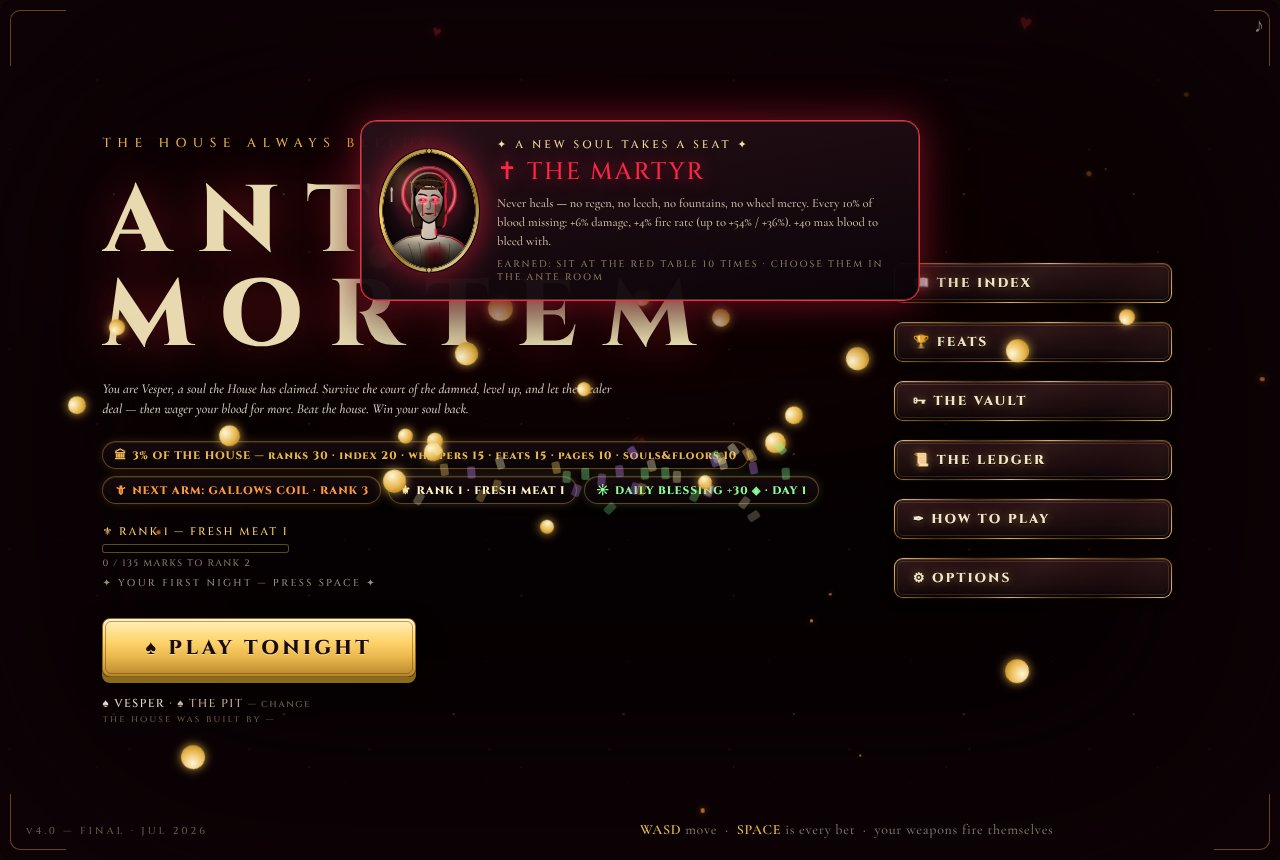
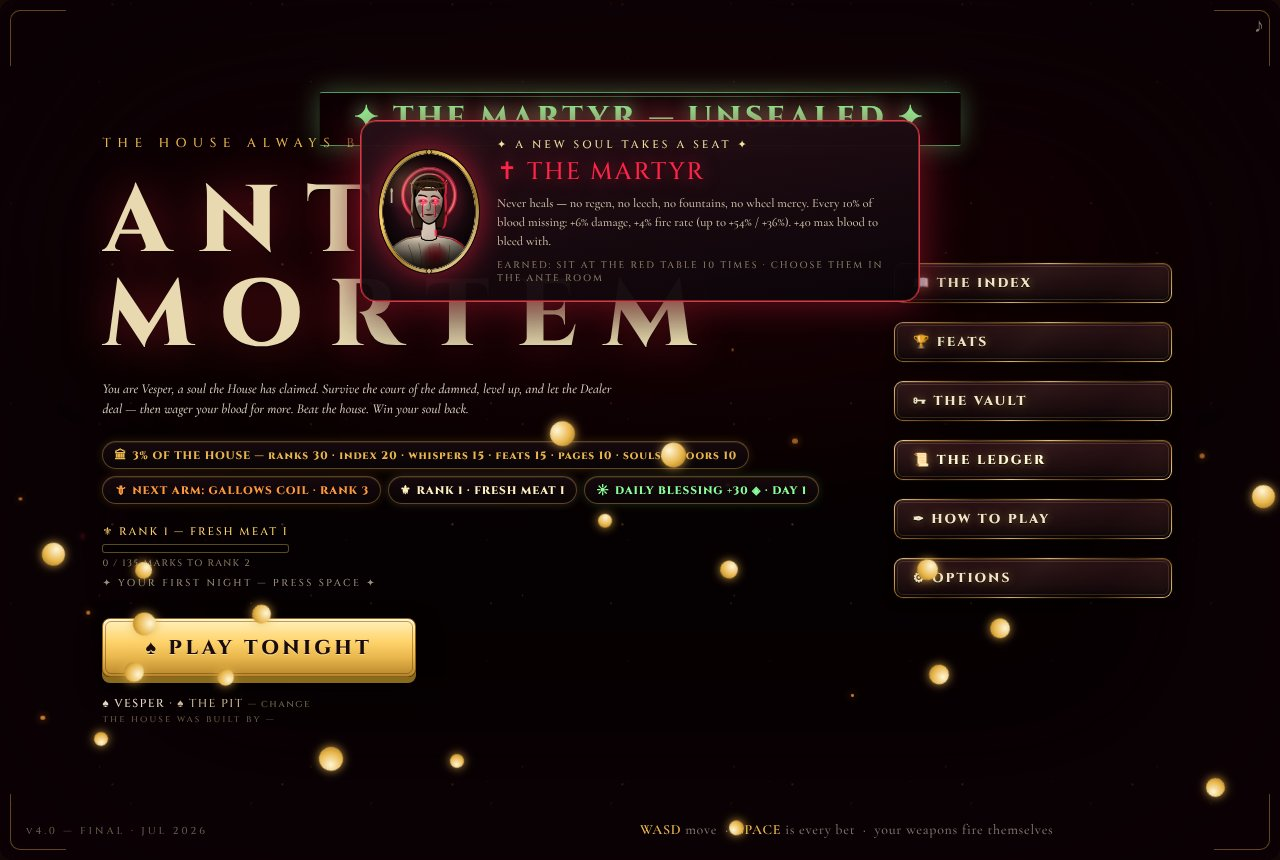
D1: full seats shot set + notes
Claude-Session: https://claude.ai/code/session_01LfZkkFh5gWa71QRUy8Zppz

diff --git a/probes/seats.js b/probes/seats.js
@@ -48,8 +48,9 @@ const unlockHalf = () => { RANK.rank = 14; RANK._ld = 1; LT.deaths = 30; LT.trip
     await settle(page, 20); await shot(page, 's5_index_seats');
     await page.evaluate(() => { document.getElementById('indexPanel').classList.add('hidden'); });
     // 6 — the Cardsharp's tell
-    await page.evaluate(() => { LT.triples = 3; IDX.sl = 'sharp'; window.__bot.noSlotTap = true; window.__bot.god = true; });
+    await page.evaluate(() => { LT.triples = 3; IDX.sl = 'sharp'; window.__bot.noSlotTap = true; window.__bot.god = true; window.__bot.renderEvery = 30; });
     await until(page, "state==='slot' && slotStage==='ready'", 30000);
+    await page.evaluate(() => { window.__bot.renderEvery = 1; });
     await settle(page, 40); await shot(page, 's6_cardsharp_tell');
     await page.evaluate(() => { P.coins = 60; sharpRedeal(); }); await settle(page, 30); await shot(page, 's6b_cardsharp_redealt');
     // check the tell is honoured through the whole pull
@@ -64,7 +65,7 @@ const unlockHalf = () => { RANK.rank = 14; RANK._ld = 1; LT.deaths = 30; LT.trip
   // 7 — the Magpie's golden chip, mid-night
   {
     const { browser, page, errors } = await launch({ which });
-    await page.evaluate(() => { window.__bot.renderEvery = 1; const s = SOULS.find(x => x.id === 'magpie'); s.u = () => true; IDX.sl = 'magpie'; window.__bot.god = true; });
+    await page.evaluate(() => { window.__bot.renderEvery = 30; const s = SOULS.find(x => x.id === 'magpie'); s.u = () => true; IDX.sl = 'magpie'; window.__bot.god = true; });
     await until(page, "state==='playing' && gt>20", 20000);
     await page.evaluate(() => { for (let i = 0; i < 4; i++) coins.push({ x: P.x + 60 + i * 30, y: P.y + 40, r: 6, vx: 0, vy: 0, _d1: 1, gold: 1 }); });
     await settle(page, 4);

diff --git a/notes/D1.md b/notes/D1.md
@@ -1,0 +1,66 @@
+# D1 — THE SEATS (new playable souls + portraits)
+
+Branch `claude/d1-seats`. Four new souls, a painted portrait for all ten, an unlock ceremony, an Index section.
+
+## What it feels like now
+**The Ante Room has faces.** Every soul card carries an oval cameo in a gilt frame: a candlelit bust on velvet black,
+rim-lit in the soul's own color, eyes glowing. Vesper in her crimson coat and feathered brim; the Dealer under a
+blue glass eyeshade with a fan of cards; the Widow behind a violet veil with a moth at her throat; the Debtor in a
+dented top hat, monocle and padlocked chain; the Brute bald, scarred, iron-collared, spiked pauldrons; the Yolk peeking
+out of its cracked shell. Sealed seats show the same bust as a **black silhouette with only the eyes burning**, the
+name, the condition, and a progress bar ("4 / 10") — you can see who you're working toward.
+
+**The four new souls:**
+- **♣ THE CARDSHARP** (emerald) — *LAND 3 TRIPLES.* Every slot opens with THE TELL: the card shows exactly what the
+  pull will give before you spin — "IRON CONSTITUTION · ♣ THE TELL: PAIR — +2 LEVELS". Don't like it? **R** (or the green
+  RE-DEAL button) burns 25 coins and deals a fresh hand, once per slot — riffle sound, green flash, card flips in.
+  The reels then land exactly as told (loose hands become a fated single the selector lands on). −15 max blood.
+- **✝ THE MARTYR** (crimson) — *SIT AT THE RED TABLE 10 TIMES.* Nothing heals her: regen, leech, fountains, wheel
+  heals, tarot heals all get "✝ REFUSED". Every 10% of blood lost tolls a bell and stamps STIGMATA I…IX:
+  +6% damage and +4% fire rate per step (up to +54% / +36%), and a crimson halo thickens around her. +40 max blood.
+  Resurrection isn't healing — the Death Roll, Phoenix and Second Chance still work.
+- **✧ THE MAGPIE** (cyan) — *PICK UP 5,000 LIFETIME COINS.* Pickup reach ×2.5, −20% damage. 3% of coins drop as a
+  red-and-gold casino chip with a cyan glow; grab one and a little three-reel slot pops up under the banner and spins
+  without stopping the night: 7-7-7 (12%) = a free level, a pair (35%) = a free mini-power, a bust = 8–15 coins.
+- **♖ THE BANKER'S GHOST** (chartreuse) — *CASH OUT RAGE AT 90%+ 15 TIMES* (counted for every soul).
+  Every 60s: "♖ INTEREST ACCRUES — +N COINS" (8% of the purse, ka-ching + coin rain, a 5-second warning first).
+  Every 90%+ RAGE cash-out also pays a dividend of 16% of the purse. The Wheel of Souls never manifests for him. −10 max blood.
+
+**Unlocking** any soul (old or new) fires the ceremony once: a framed toast with the portrait sliding in
+("✦ A NEW SOUL TAKES A SEAT ✦"), a low bell, a rising six-note arpeggio, chip stack, confetti, coin rain, a flash
+in the soul's color. It fires on the menu, the ledger, or mid-run (checked every 4s). **The death ledger** now opens its
+run record with the portrait of whoever sat tonight. **The Index** has a THE SEATS section (hover for the full card text).
+
+## Verified
+- `npm run build` clean.
+- `npm run probe -- --nights 1 --soul <id>` for each new soul, exit 0, 0 errors: martyr died 3:29 L4 (reached STIGMATA IX),
+  sharp 4:59 L5, magpie 4:22 L5 (4 golden chips spun), banker 2:39 L3 (interest paid). Bot report now has a `soulFx` block.
+- Baseline `npm run probe -- --nights 3` (Vesper): see the final line of this file.
+- `node probes/seats.js` → `shots/d1-seats/`: s1/s2 portrait sheets (seated + sealed), s3 Ante Room desktop, s4 unlock toast,
+  s5 Index section, s6/s6b Cardsharp tell + re-deal, s7/s7b Magpie chips on the floor + chip slot, s8 death ledger
+  with portrait, s9/s9b/s9c Ante Room + toast on a 390×844 phone. 0 errors. The script also checks the tell is honoured:
+  `tell {"n":1,"s":"dmg"} → fate {"n":1,"s":"dmg","sharp":true}`.
+
+## Files touched (merge notes)
+- `src/ui.js` — 4 entries appended to the SOULS array; a big block appended at the END of the file (SEATS store,
+  GLYPH_COL via Object.assign, SFX via Object.assign, SOUL_PAINT/soulPortrait, renderAnteRoom & renderChips wrappers,
+  soulTick, soulDrawWorld, magpieChip/chipSpin, sharpDeal/sharpShow/sharpBtn/sharpRedeal + an R key listener,
+  wrappers on tickWheelTok/openWheel/cashRage). Wrappers reassign globals — if another branch also wraps cashRage or
+  renderAnteRoom, both chain fine as long as each keeps calling the previous one.
+- `src/core.js` — 3 one-line hooks: `soulTick(dt)` after `fnTick(dt)` in update; `magpieChip(c)` at the coin pickup;
+  `soulDrawWorld()` after the coin draw in render.
+- `src/slot.js` — dealFate honours `window._sharpTell` (only when P.sharp); stopNextReel predicate for `n===1`;
+  startSelector forces selWinner for a sharp single; openSlotReady calls sharpDeal; showSlotButtons adds the RE-DEAL button.
+- `src/ranks.js` — one line in openIndexPanel adding THE SEATS section.
+- `src/marker.js` — one line in the ledger: the `.glSoul` portrait above the soul/floor row.
+- `styles.css` — one block at the end, `/* ==== D1 ==== */`.
+- `probes/bot.js` — `--soul <id>` flag + `soulFx` in results. New `probes/seats.js`. `GAME_DESIGN.md` — souls line extended.
+- New save key `am_seats_v1` (additive). No existing keys changed. idxTotal unchanged; estate% counts 10 souls now.
+
+## Known issues
+- Estate % for veterans dips slightly (souls are 1/20 of the estate and the denominator grew from 6 to 10).
+- Martyr's damage/fire bonus is applied multiplicatively to P.damage/P.fireRate; additive debuff reverts from curses
+  can shift it by a hair. RAGE snapshots are rescaled so RAGE never eats or doubles the stigmata.
+- The Cardsharp tell can't foresee the 1% SERAPH upgrade (it's a surprise on top — the House still cheats).
+- The Magpie chip's `pending.push({})` opens a level slot right away, as a level-up would.
+- Final baseline `npm run probe -- --nights 3` (Vesper, built file): 4:51 L6 / 4:54 L6 / 4:50 L5 — median **4:51**, 0 errors (baseline band 4:50–6:40).
